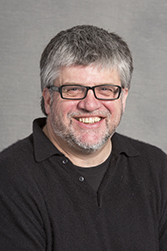
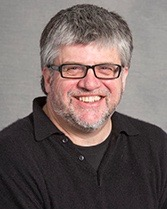
editted profile images

diff --git a/recentActivity/uclKeyResearchers.html b/recentActivity/uclKeyResearchers.html
@@ -18,6 +18,14 @@
     
         <!-- Custom styles for this template -->
         <link href="/css/creative.min.css" rel="stylesheet">
+        <style>
+            .profilePic {
+                border-radius: 8px;
+                display: block;
+                margin: auto;
+                width: 50%;
+            }
+        </style>
     </head>
     <body>
     <!--    navbar come here  -->        
@@ -74,7 +82,7 @@
                 </div>
                 <div class="row">
                     <div class="col-lg-4">
-                        <img src = "/images/georgeDanezis.jpg" width="500" height="300">
+                        <img src = "/images/georgeDanezis.jpg" class="profilePic">
                     </div>
                     <div class="col-lg-8">
                         <p>His current research interests focus around secure communications, high-integrity systems to support privacy, smart grid privacy, peer-to-peer and social network security, as well as the application of machine learning techniques to security problems. He has published over 70 peer-reviewed scientific papers on these topics in international conferences and journals. (<a href=http://www0.cs.ucl.ac.uk/staff/G.Danezis/>find out more</a>)</p>
@@ -91,7 +99,7 @@
                 </div>
                 <div class="row">
                     <div class="col-lg-4">
-                        <img src = "/images/davidPym.jpg" width="500" height="300">
+                        <img src = "/images/davidPym.jpg" class="profilePic">
                     </div>
                     <div class="col-lg-8">
                         <p>He is interested in developing research-based teaching methods and in breaking barriers between mathematical, engineering, and social science aspects of teaching in computing. His research also touches on pure logic and on developing logic-based methods as a mathematical modelling technology for reasoning about systems and behaviour. Prof. Pym believes this is particularly important for teaching information security and cybersecurity effectively. (<a href=http://www0.cs.ucl.ac.uk/people/D.Pym.html>find out more</a>)</p>
@@ -108,7 +116,7 @@
                 </div>
                 <div class="row">
                     <div class="col-lg-4">
-                        <img src="/images/researcher1.png" class="img-responsive" width="500" height="300">
+                        <img src="/images/angelaSasse.jpg" class="img-responsive" class="profilePic">
                     </div>
                     <div class="col-lg-8">
                         <p>A usability researcher by training, she started investigating the causes and effects of usability issues with security mechanisms in 1996.  In addition to studying specific mechanisms such as biometrics, and access control, her research group has developed human-centred frameworks that explain the role of security, privacy, identity and trust in human interactions with technology.  She is currently the Director of the multidisciplinary UK Research Institute for Science of Cyber Security (RISCS). (<a href=http://www0.cs.ucl.ac.uk/people/A.Sasse.html>find out more</a>)</p>
@@ -125,12 +133,17 @@
                 </div>
                 <div class="row">
                     <div class="col-lg-4">
-                        <iframe width="560" height="315" src="https://www.youtube.com/embed/AhWf5KwTkH8" frameborder="0" allowfullscreen></iframe>
+                        <img src="/images/eDeCristofaro.jpg" class="img-responsive" class="profilePic">
                     </div>
                     <div class="col-lg-8">
                         <p>Having joined UCL in 2013, Dr Cristofaro currently spends his time doing research in security and privacy-enhancing technology. More specifically, he works on understanding and countering security issues via measurement studies and data-driven analysis, as well as tackling problems at the intersection of machine learning (computers learning without being explicitly being programmed to do so) and security/privacy. (<a href=http://www0.cs.ucl.ac.uk/people/E.DeCristofaro.html>find out more</a>)</p>
                     </div>
-                </div>    
+                </div>
+                <div class="row">
+                    <div class="col-lg-12">
+                        <iframe width="560" height="315" src="https://www.youtube.com/embed/AhWf5KwTkH8" frameborder="0" allowfullscreen></iframe>
+                    </div>
+                </div>     
             </div>
         </section>
 
